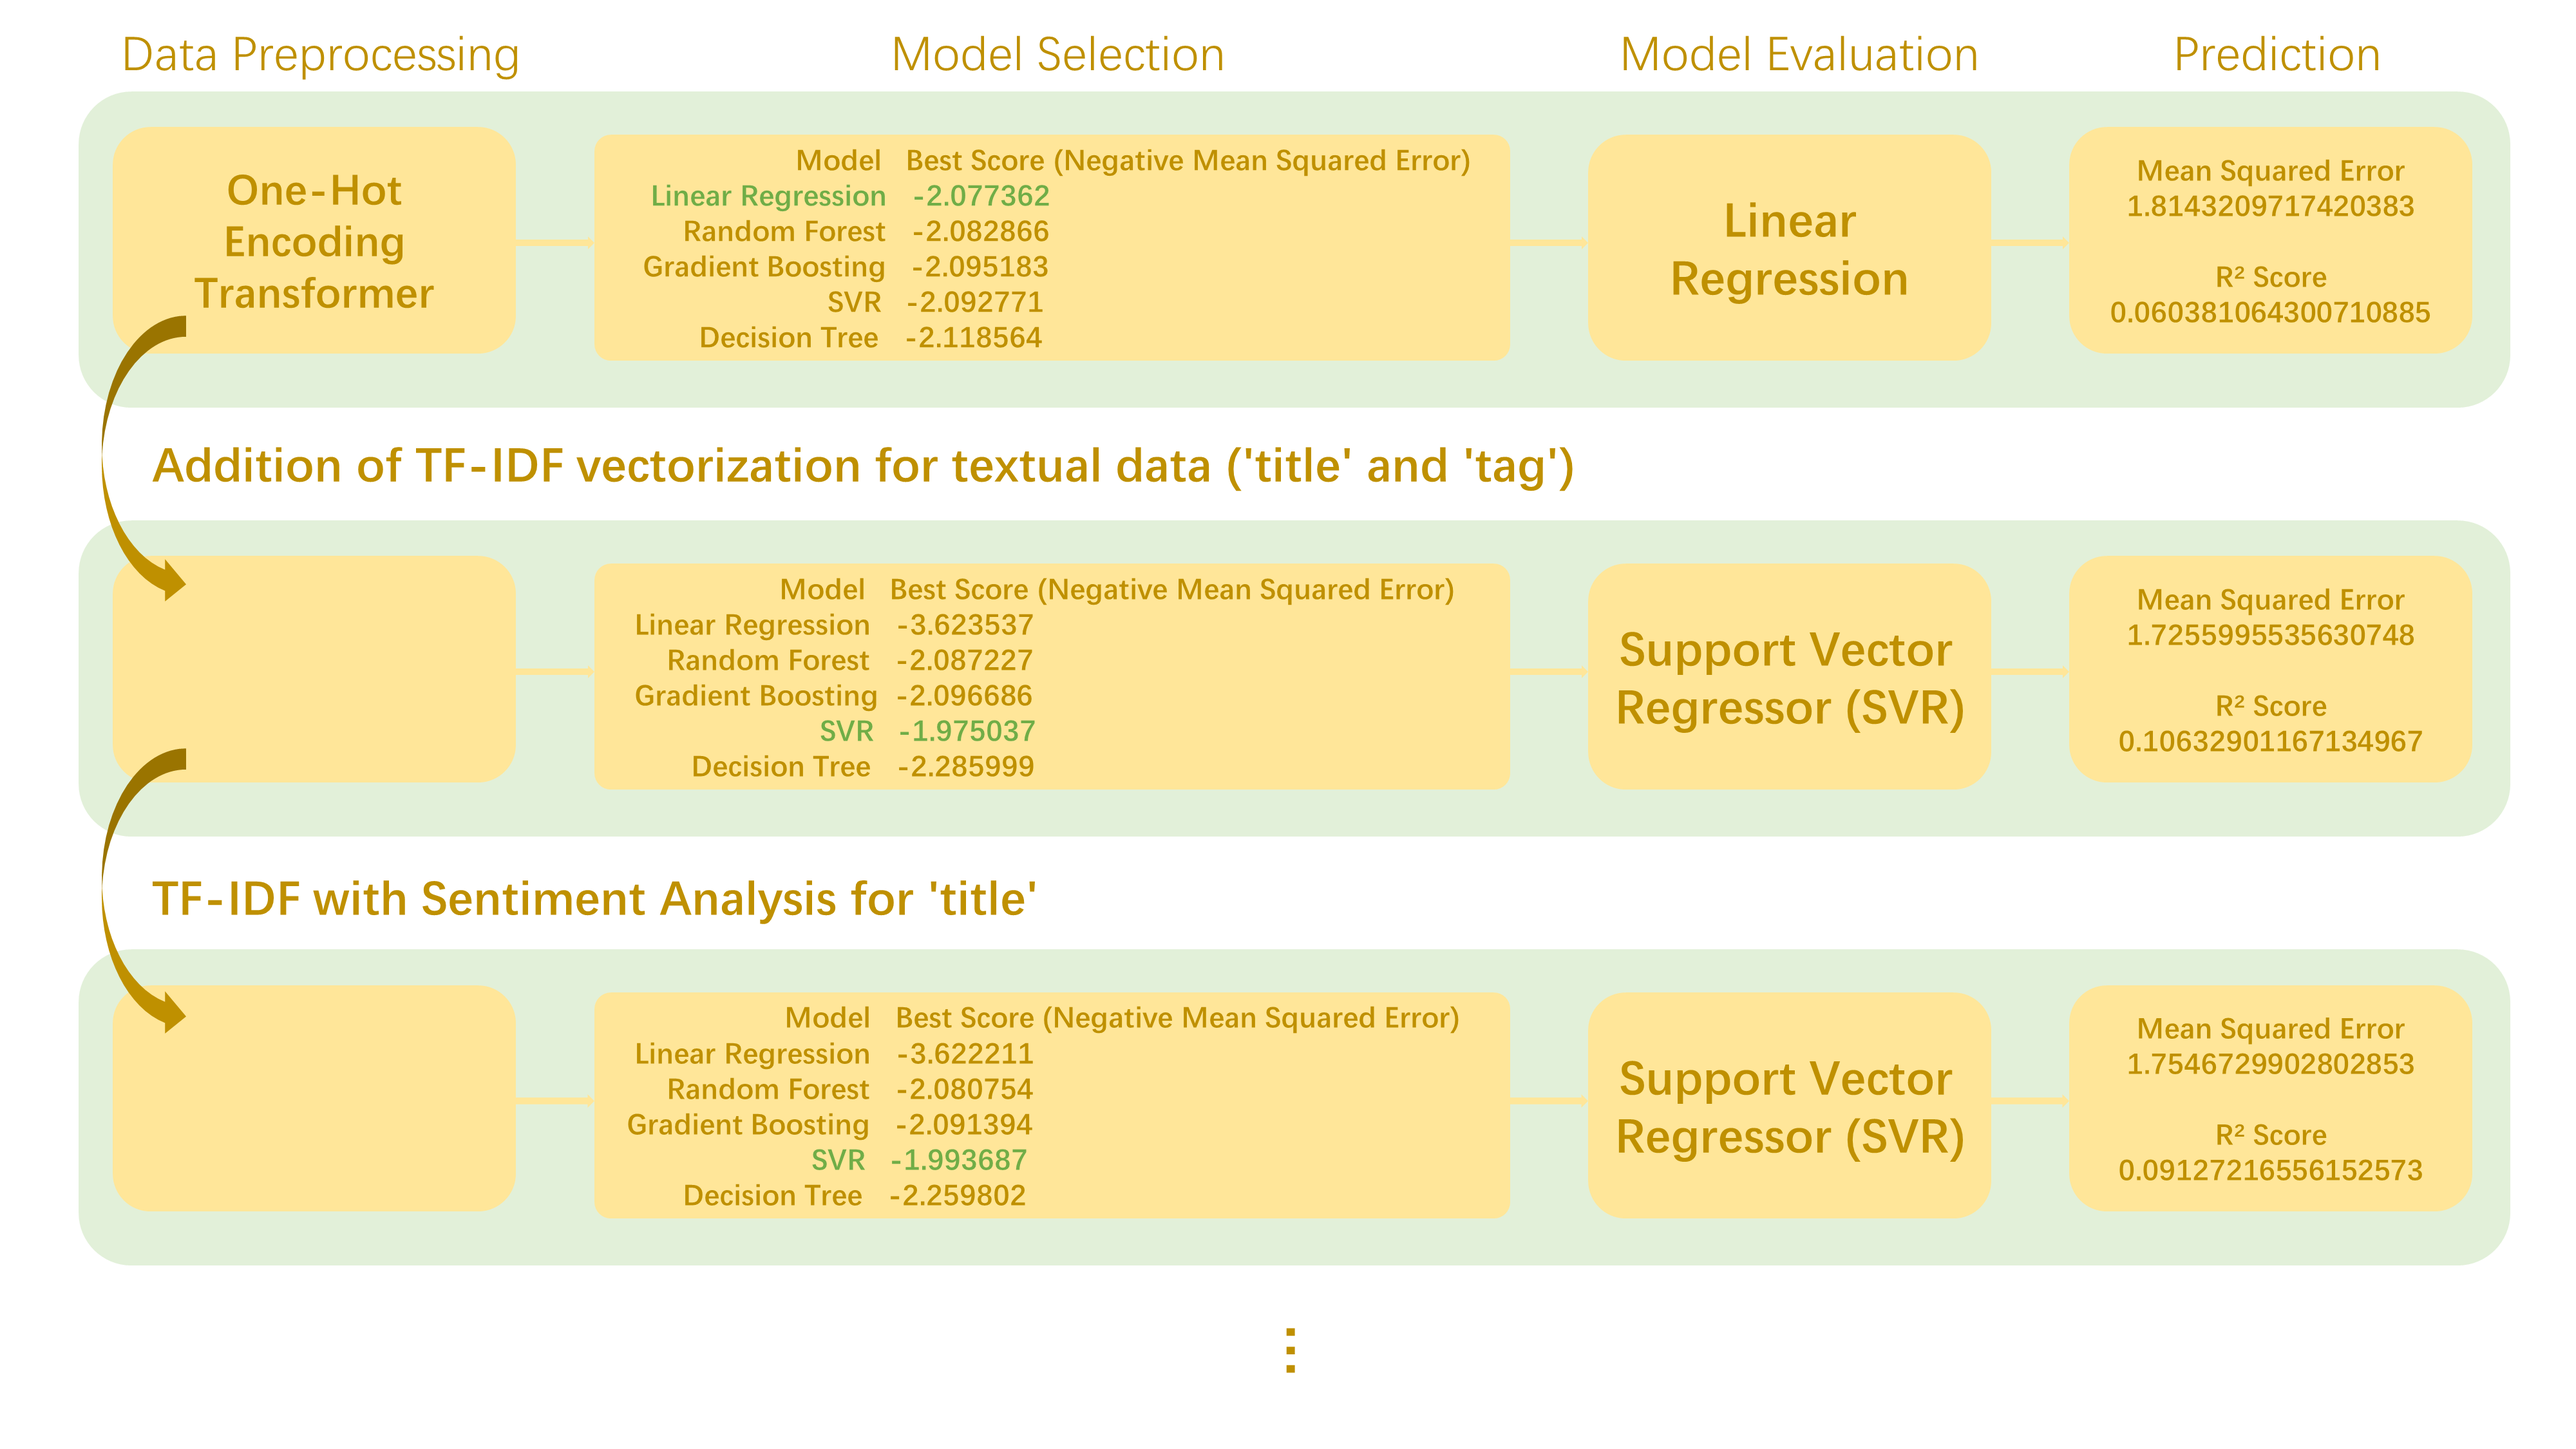
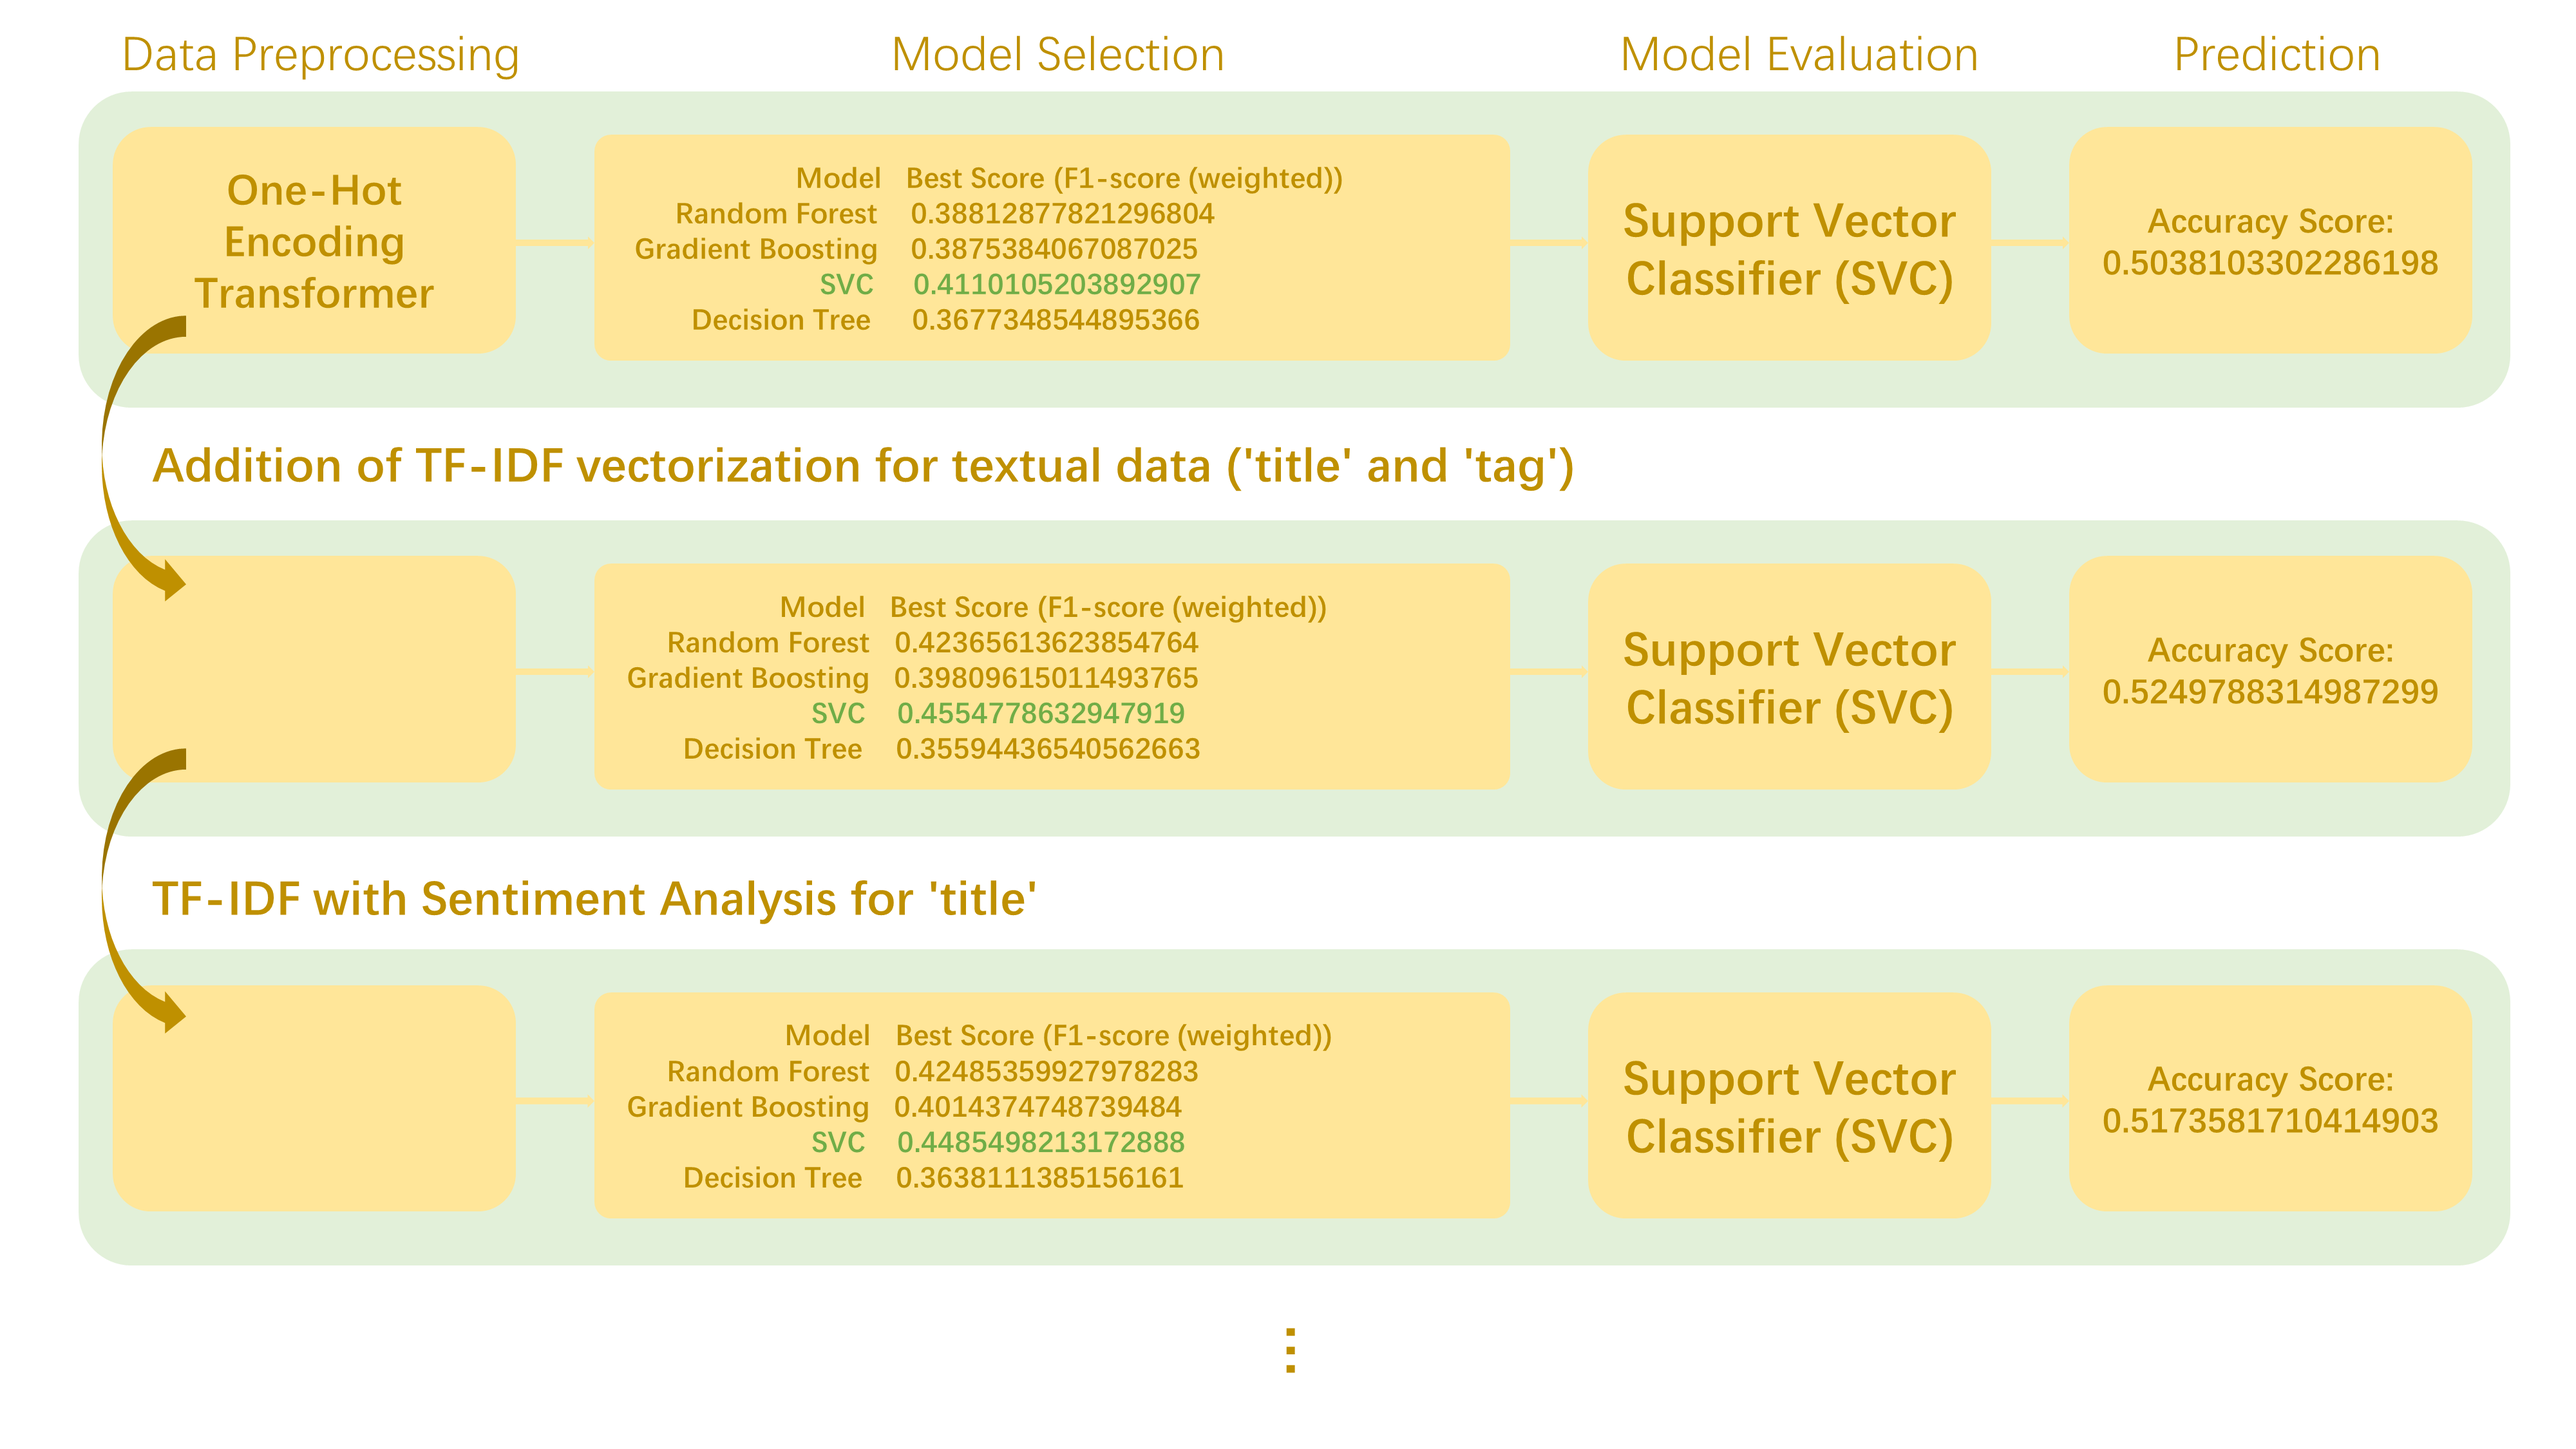
Update prediction

diff --git a/prediction.html b/prediction.html
@@ -56,7 +56,7 @@
         <div style="text-align: left; width: 40%; margin-bottom: 0%; margin-top: 5%;">
           <h2 style="color:#085a98;">Predictive Modeling</h2>
           <h2>Employing advanced NLP techniques like TF-IDF, sentiment analysis, alongside comprehensive machine
-            learning with models including Random Forest and SVR.</h2>
+            learning with models including Random Forest and SVC.</h2>
         </div>
 
         <div style="width:20%; ">
@@ -126,14 +126,14 @@
                 <ul>
                   <li>Split the data into training, validation, and testing sets to ensure robust model evaluation.
                   </li>
-                  <li>Test different models such as Linear Regression, Random Forest, Gradient Boosting, SVR, and
+                  <li>Test different models such as Random Forest, Gradient Boosting, SVC, and
                     Decision Tree.</li>
                   <li>Utilize Grid Search for hyperparameter tuning of each model to optimize performance.</li>
                 </ul>
                 <strong>Model Evaluation</strong>
                 <ul>
                   <li>Choose the model with the best performance based on cross-validation scores, particularly
-                    focusing on neg_mean_squared_error.</li>
+                    focusing on f1 score.</li>
                   <li>Compare the models' performance with the best-found hyperparameters to determine the most
                     suitable model for the task.</li>
                 </ul>
@@ -141,7 +141,7 @@
                 <ul>
                   <li>Select the best-performing model and its corresponding hyperparameters.</li>
                   <li>Train this model on the full training dataset to maximize its learning potential.</li>
-                  <li>Evaluate the model's performance on the test set using metrics such as Mean Squared Error and R²
+                  <li>Evaluate the model's performance on the test set using metrics such as accuracy
                     to assess its predictive capabilities.</li>
                 </ul>
               </ul>
@@ -157,19 +157,20 @@
             <div class="row">
               <img src="assets/img/prediction/ml-4.png" style="width:100%;">
               <p style="text-align: justify; font-size: 12px; width: 90%; margin-left: 5%;">
-                <br>- The addition of TF-IDF features in Round 2 enhanced the models' performance significantly,
-                indicating the importance of textual data in predicting TED Talks' popularity.
-                <br>- The incorporation of sentiment analysis in Round 3 did not yield a substantial improvement,
-                slightly reducing the test performance.
-                <br>- SVR emerged as the best model in Rounds 2 and 3, indicating its effectiveness in handling the
-                complex feature space created by TF-IDF and sentiment analysis.
-                <br>- Despite enhancements, the overall R² Scores remained low across all rounds, suggesting that other
-                unexplored features or more advanced modeling techniques could be necessary for better prediction
-                accuracy.
+                <br><b>- Consistent Performance of SVC</b>: Across all rounds, SVC consistently outperformed other models.
+                This indicates its suitability for the dataset and feature set.
+                <br><b>- Impact of Textual Features</b>: The introduction of TF-IDF vectorization in Round 2 significantly
+                improved the model performances, highlighting the importance of textual data in the dataset.
+                <br><b>- Effect of Sentiment Analysis</b>: The addition of sentiment analysis in Round 3 did not improve
+                the SVC's performance as expected. This might be due to the nature of the 'title' data or the way
+                sentiment scores interact with other features. It's possible that the sentiment of a title might not be
+                as predictive for popularity as the content of the title itself.
                 <br><br>
-                This analysis indicates that while text-based features (TF-IDF and sentiment) add value, there is room
-                for further exploration, possibly through more advanced NLP techniques or different modeling approaches,
-                to better capture the factors driving the popularity of TED Talks.
+                This analysis indicates that while text-based features (TF-IDF and sentiment) add value to the
+                predictive models, there is room for further exploration. Future steps might include experimenting with
+                more advanced NLP techniques, exploring different feature sets, or employing more complex modeling
+                approaches. These efforts aim to better capture the multifaceted factors driving the popularity of TED
+                Talks.
                 </b>
               </p>
             </div>
@@ -205,8 +206,8 @@
         }
       </style>
 
-      <a href="https://github.com/adagogogo/TED_Talks_Popularity_Prediction" download
-        class="download-button">Download Code</a>
+      <a href="https://github.com/adagogogo/TED_Talks_Popularity_Prediction" download class="download-button">Download
+        Code</a>
 
       <div class="credits">
         <!-- All the links in the footer should remain intact. -->

diff --git a/index.html b/index.html
@@ -61,7 +61,7 @@
     style="background: linear-gradient(to right, #8EC5FC, #E0C3FC);">
     <div class="container" data-aos="zoom-in" data-aos-delay="100">
       <h1>Lingli Guo</h1>
-      <p>I'm <span class="typed" data-typed-items="Data Analyst, Creator, Developer, Learner"></span></p>
+      <p>I'm <span class="typed" data-typed-items="Analyst, Creator, Developer, Learner"></span></p>
       <p>Skilled in <span style="height: 200px;">
           <span class="tag"> <iconify-icon icon="devicon:python-wordmark"></iconify-icon> Python</span>
           <span class="tag"> <iconify-icon icon="devicon:mysql-wordmark"></iconify-icon> SQL</span>
@@ -95,7 +95,7 @@
       <div class="container" data-aos="fade-up">
 
         <div class="section-title">
-          <h2>Project - TED Talks Analyzing</h2>
+          <h2>Project - TED Talks Analyzing & Prediction</h2>
         </div>
 
         <div class="row">
@@ -142,8 +142,7 @@
                 <img src="assets/img/visualization/tableau-view.png"
                   style="width: 100%; height: auto; max-height: 200px;">
                 <h4>Part 3 - Data Visualization</h4>
-                <p>Creating visually stunning and insightful dashboards using Tableau, Power BI, and Excel to conduct in-depth analysis</p>
-                <br>
+                <p>Creating visually stunning and insightful dashboards using Tableau, Power BI, and Excel to conduct in-depth analysis.</p>
                 <img src="assets/img/logo/TableauLogo_RGB.png" style="width: 30%; height: auto;">
                 <img src="assets/img/logo/powerbi-logo.png" style="width: 30%; height: auto;">
                 <img src="assets/img/logo/excel-logo.png" style="width: 30%; height: auto;">
@@ -161,7 +160,7 @@
                 <h4>Part 4 - Analysis in MySQL</h4>
                 <p>Discovering valuable insights from data through skillful table design, Python-powered import processes, and incisive analysis using MySQL queries.</p>
                 <br>
-                <iconify-icon icon="logos:mysql"></iconify-icon>
+                <img src="assets/img/logo/mysql-logo.png" style="width: 15%; height: auto;margin-top: -5%;">
                 <img src="assets/img/logo/python-logo.png" style="width: 30%; height: auto;">
                 <br>
               </div>
@@ -175,7 +174,7 @@
               <div class="icon-box iconbox-pink mainpage-icon-box">
                 <img src="assets/img/prediction/ml-3.png" style="width: 100%; height: auto; max-height: 200px;">
                 <h4>Part 5 - Predictive Modeling</h4>
-                <p>Employing advanced NLP techniques like TF-IDF, sentiment analysis, alongside comprehensive machine learning with models including Random Forest and SVR.</p>
+                <p>Employing advanced NLP techniques like TF-IDF, sentiment analysis, alongside comprehensive machine learning with models including Random Forest and SVC.</p>
                 <br>
                 <img src="assets/img/logo/python-logo.png" style="width: 30%; height: auto;">
                 <br>
